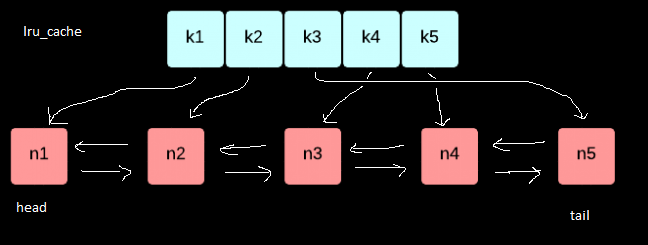
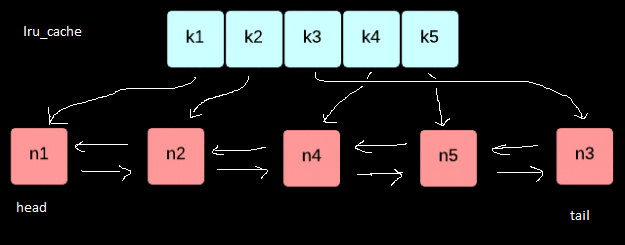
Exercise LRU Cache finished

diff --git a/02_show_me_the_data_structures/01_lru_cache/LRU_Cache.py b/02_show_me_the_data_structures/01_lru_cache/LRU_Cache.py
@@ -1,30 +1,87 @@
-class LRU_Cache(object):
+from nodes import nodes as nd
 
+class LRU_Cache(object):
     def __init__(self, capacity):
         # Initialize class variables
-        pass
+        self.capacity = capacity #capacity
+        self.map = dict() #HashMap
+        self.head = None
+        self.tail = None
+    
+    def __repr__(self):
+        if self.map is None:
+            return 'None'
+        return str(self.map) 
 
     def get(self, key):
-        # Retrieve item from provided key. Return -1 if nonexistent. 
-        pass
+        """
+        Retrieve item from provided key. Return -1 if nonexistent.
+        """
+        dnode = self.map.get(key) #dobleNode
+        head = self.map.get(self.head)
+        if dnode is not None: 
+            # validar si no es cabezera, si no que el anterior apunte al nodo siguiente
+            if dnode.next is not None:
+                self.map[dnode.next].previous = dnode.previous
+            # Eliminar entre los nodos 
+            if dnode.previous is not None:
+                self.map[dnode.previous].next = dnode.next
+            else:
+                self.tail = dnode.next
+            if head is not None:
+                head.next = key
+            dnode.previous = self.head
+            dnode.next = None
+            self.head = key
+            return dnode
+        else:
+            return -1
 
     def set(self, key, value):
-        # Set the value if the key is not present in the cache. If the cache is at capacity remove the oldest item. 
-        pass
+        """
+        Set the value if the key is not present in the cache. If the cache 
+        is at capacity remove the oldest item.
+        """ 
+        # primero evaluar si el cache tiene un tama;o
+        if self.capacity != 0:
+            
+            # Evaluar si no esta lleno, si no eliminar
+            if len(self.map)+1 > self.capacity:
+                tail_aux = self.map[self.tail]
+                del self.map[self.tail]
+                self.tail = tail_aux.next
+                
+            head = self.map.get(self.head)
+            dnode = nd(value)
+            # Evaluar si el cache esta vacio
+            if head is None:
+                self.head = key
+                self.tail = key
+            else:
+                dnode.previous = self.head
+                head.next = key
+            self.map[key] = dnode
+            self.head = key
+        else:
+            print("Error: size cache == 0")
+        print(self.map)
 
-our_cache = LRU_Cache(5)
-
-our_cache.set(1, 1);
-our_cache.set(2, 2);
-our_cache.set(3, 3);
-our_cache.set(4, 4);
-
-
-our_cache.get(1)       # returns 1
-our_cache.get(2)       # returns 2
-our_cache.get(9)      # returns -1 because 9 is not present in the cache
-
-our_cache.set(5, 5) 
-our_cache.set(6, 6)
-
-our_cache.get(3)      # returns -1 because the cache reached it's capacity and 3 was the least recently used entry
+if __name__ == "__main__": ##TEST
+    
+    our_cache = LRU_Cache(5)
+    
+    our_cache.set(1, 1);
+    our_cache.set(2, 2);
+    our_cache.set(3, 3);
+    our_cache.set(4, 4);
+    
+    
+    print(our_cache.get(1))       # returns 1
+    print(our_cache.get(2))       # returns 2
+    print(our_cache.get(9))      # returns -1 because 9 is not present in the cache
+    
+    our_cache.set(5, 5) 
+    our_cache.set(6, 6)
+    
+    print(our_cache.get(3))      # returns -1 because the cache reached it's 
+                                 #capacity and 3 was the least recently used entry

diff --git a/02_show_me_the_data_structures/01_lru_cache/nodes.py b/02_show_me_the_data_structures/01_lru_cache/nodes.py
@@ -1,0 +1,14 @@
+# -*- coding: utf-8 -*-
+# @autor: Miguel Itzep
+
+# Doble node
+class nodes(object):
+    def __init__(self, value):
+        self.value = value
+        self.next = None
+        self.previous = None
+        
+    def __repr__(self):
+        if self.value is None:
+            return 'None'
+        return str(self.value)

diff --git a/02_show_me_the_data_structures/01_lru_cache/lru_cache_explanation.md b/02_show_me_the_data_structures/01_lru_cache/lru_cache_explanation.md
@@ -1,0 +1,12 @@
+## **rlu_cache**
+
+Basically, an LRU cache is made up of two data structures.
+- HashMap
+- DobleLinkedList
+
+For this structure, we get a search quickly thanks to the **HashMap**, which points to a node in the DoubleLinkedList, making it easy to insert data = `O(1)`.
+On the other hand, we have the **DoubleLinkedList** to order data, when data is required it can be obtained using its key = `O(1)`.
+
+In conclusion, what we get from LRU Cache is time, but we lose a bit of space because it requires two data structures for implementation. See figure rlu_cache
+
+![hola](https://github.com/mikex01/udacityDataStructuresAndAlgorithms/blob/master/02_show_me_the_data_structures/01_lru_cache/lru_cache.png?raw=true)
